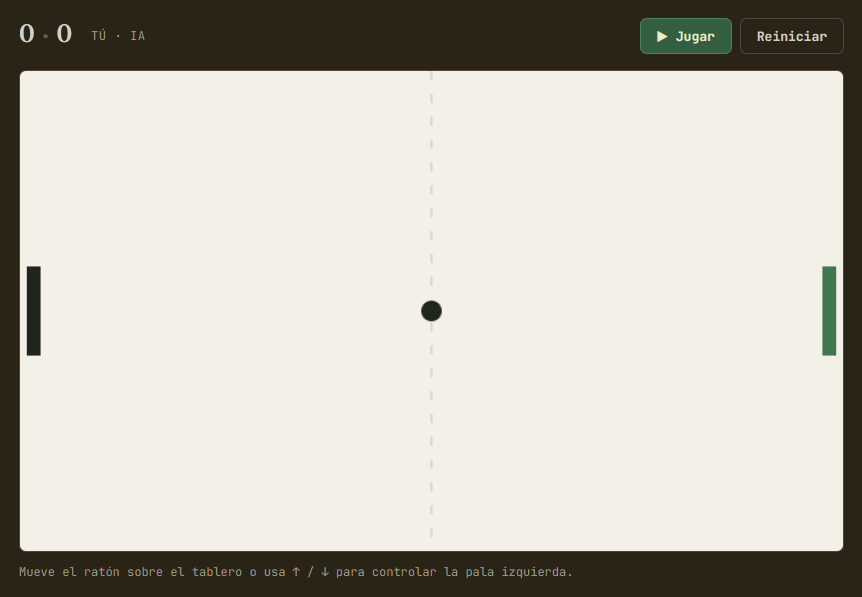
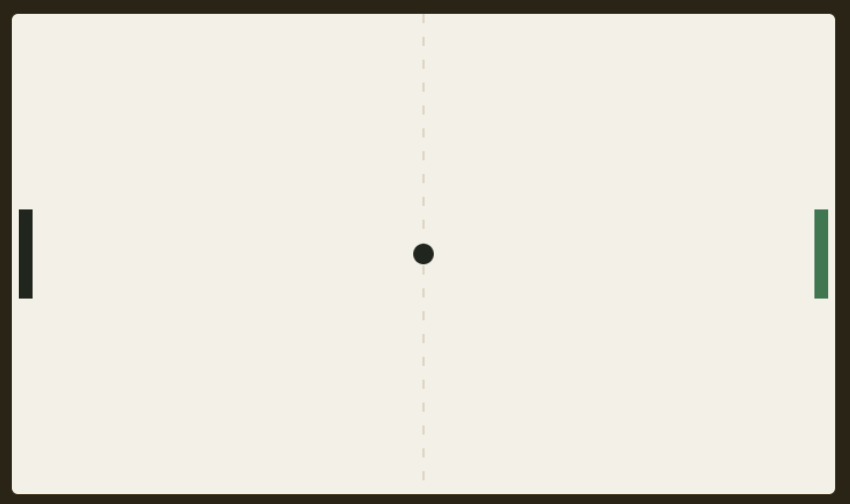
feat: mostrar fallback si falla la carga de imagen

Changed region(s): [[0.0, 0.0, 1.0, 0.9821], [0.4894, 0.4762, 0.52, 0.5357]]

diff --git a/components.jsx b/components.jsx
@@ -93,11 +93,18 @@ function Hero({ data }) {
 
 /* ---- Card ---- */
 function ProjectCard({ project, onOpen, big }) {
+  const [imageError, setImageError] = useStateC(false);
+
   return (
     <article className={"pf-card" + (big ? "" : " span4")} onClick={() => onOpen(project)}>
       <div className="pf-card-art">
-        {project.image ? (
-          <img src={project.image} alt={project.title} style={{ width: '100%', height: '100%', objectFit: 'cover' }} />
+        {project.image && !imageError ? (
+          <img
+            src={project.image}
+            alt={project.title}
+            style={{ width: '100%', height: '100%', objectFit: 'cover' }}
+            onError={() => setImageError(true)}
+          />
         ) : (
           <ProjectArt hue={project.hue} label={project.playable ? "jugable ↗" : project.placeholder ? "próximamente" : "captura del proyecto"} />
         )}